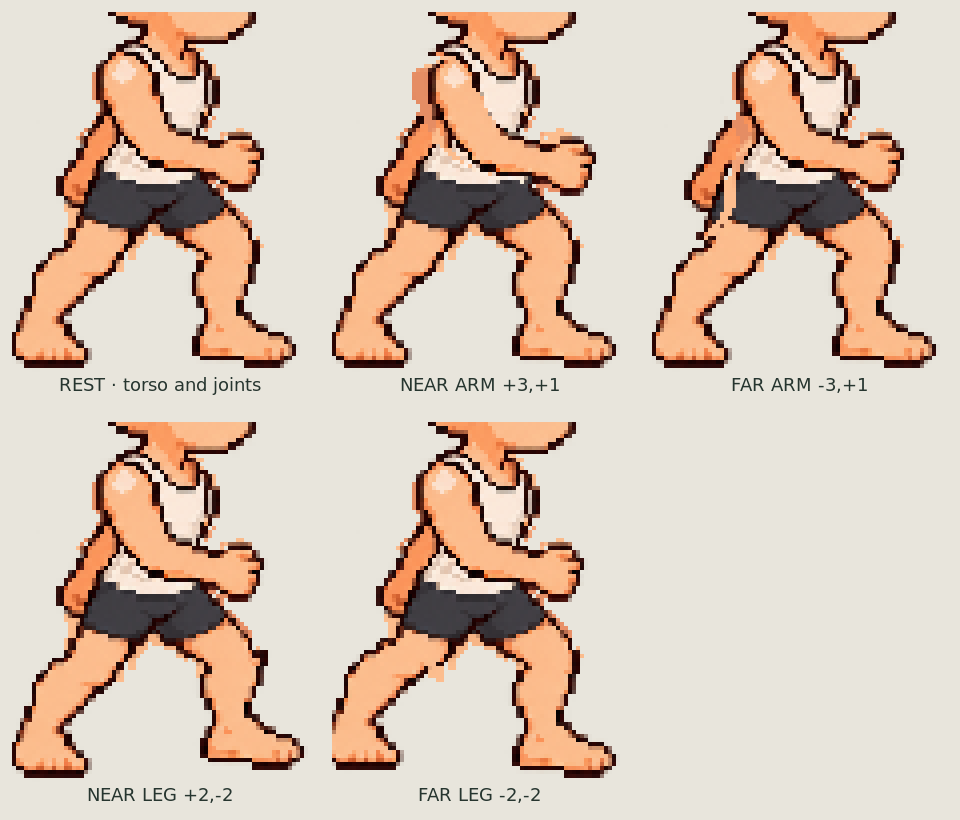
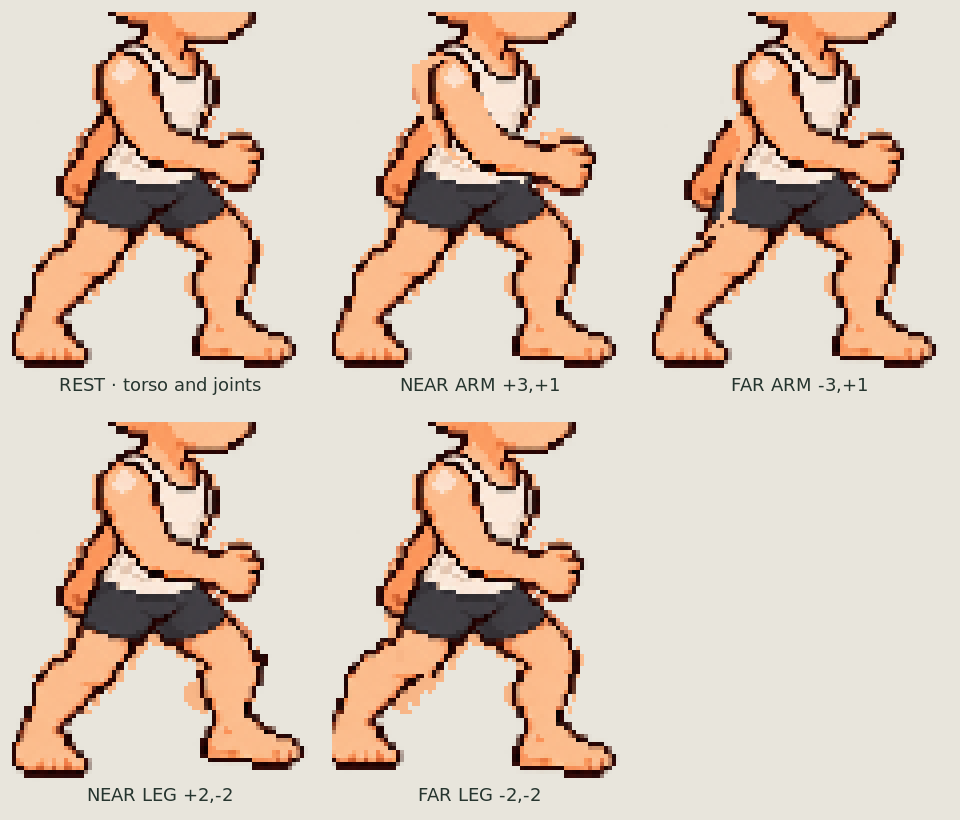
Extend battle idle shoulder and hip underlay

diff --git a/docs/ITERATION_STATUS.md b/docs/ITERATION_STATUS.md
@@ -1,6 +1,6 @@
 # 林间行旅迭代进度 · 2026-10-19
 
-**2026-10-19 最新进展：战场静态样板与独立环境四层重组已获认可；[向右侧视待机中性人体 r2](../Art/Templates/P1-Neutral/battle-side/right-idle-r2/README.md)的姿态与近侧右手方向已获认可。[隐藏人体底层 v2](../Art/Templates/P1-Neutral/battle-side/right-idle-parts-v2/README.md)已修复八层像素归属，静态重组与 r2 逐像素一致；小幅四肢位移测试仍暴露肩髋接缝，需继续补画。通用模板、动作与运行时接入仍未完成。向下正手垂剑 v5 的单帧认可保留；[强击 × 训练短剑首组特效](../Art/Effects/P1-Boardgame/heavyStrike-trainingSword-v1/README.md)正常速度原型仍待独立审美审核。**
+**2026-10-19 最新进展：战场静态样板与独立环境四层重组已获认可；[向右侧视待机中性人体 r2](../Art/Templates/P1-Neutral/battle-side/right-idle-r2/README.md)的姿态与近侧右手方向已获认可。[隐藏人体底层 v2](../Art/Templates/P1-Neutral/battle-side/right-idle-parts-v2/README.md)已修复八层像素归属，静态重组与 r2 逐像素一致；肩髋四个局部根部窗口的小位移覆盖检查通过。整段肢体平移会改变外轮廓，因此全动作接缝、完整隐藏人体与运行时接入仍未完成。向下正手垂剑 v5 的单帧认可保留；[强击 × 训练短剑首组特效](../Art/Effects/P1-Boardgame/heavyStrike-trainingSword-v1/README.md)正常速度原型仍待独立审美审核。**
 
 最近通过完整 iPad UI 套件的正式基线仍为 [1.6.3 build 28](../Downloads/README.md)。最新 MeadowJourney 桌游布局实验包为 [1.6.6 build 31](../Downloads/MeadowJourney-build31.json)：实现三态共用布局并通过 5 项专项检查，仓库完整步态套件尚未全绿。兼容性测试只覆盖 iPad；云端使用 iPad Pro 13-inch（M4）模拟器、iOS 18.5，没有连接用户的物理 iPad。
 
@@ -19,6 +19,10 @@ r2首次修订消除了错误钩线，但实际256图放大后拇指仍只是一
 原[身体部件拆分 v1](../Art/Templates/P1-Neutral/battle-side/right-idle-parts-v1/README.md)继续保留为静态分层记录：从认可的256×256姿势按共同注册导出远近手臂、手、腿、躯干与头部共八个透明层，并制作可编辑SVG母稿。442个接缝覆盖像素单列为当前站姿补位，不是隐藏解剖。两次生成的躯干层因颈根／腰线漂移而弃用并留档。
 
 继续修订[隐藏人体底层 v2](../Art/Templates/P1-Neutral/battle-side/right-idle-parts-v2/README.md)：把原八个抗锯齿遮罩改成互斥像素归属，旧的442像素固定姿态补位层已删除；六个离散源像素并入躯干根层。八层静态重组现与注册 r2 源图逐像素一致，零 RGBA 差异，未改动 r2 原图和脚底线。将隐藏皮肤核心扩到1979像素，覆盖肩部与上髋连接面，并生成近／远手臂与腿的四组小幅平移接缝预检。预检仍发现肩部轮廓残线、髋根断线与空缺，故未通过；这轮是遮罩修复和问题定位，不代表完整解剖、动画或模板通过。下一步补画肩髋遮挡下的身体像素并调整部件分界，再复测。应用、IPA、已认可场景与步行动作未改。
+
+### 隐藏底层 v2 根部补画与局部复核
+
+按复核结果扩充 SVG 隐藏底层至2,298个非透明像素，延展肩部和上髋／上腿根部；静态合成仍与已认可 r2 逐像素一致，固定姿态补位为0。四组注册根部窗口在对应2–3 px刚性平移后均为0个未覆盖的原轮廓像素，测试图为 movement-joints.png。刚性平移会改变腿／手臂外轮廓，这些区域不补成旧肢体，因此本轮仅记录局部根部覆盖通过，全身移位缝隙、转轴动作、逐帧动作、服装遮挡仍未通过或测试。六个原图孤立透明噪点保留在精确静态重组里，只在移动诊断图中滤掉。没有修改已认可原姿态、IPA、步行动作或运行时；完整人体底层仍是未审核候选。
 
 用户在认可四层场景后明确“开始下一项工作”，授权制作独立侧视待机人物。按分层合同，先制作并单张审核向右侧视待机中性人体；维持已认可共同人体的头身比例、完整无发头皮／耳朵、空白面部、安全内衫／短裤与裸足。已认可战场样板仅用于侧向姿态、镜头与地面关系，不将其中绿衣、棕发、蓝眼或短剑烘焙进基础人体。新稿及生成依据另存 `Art/Templates/P1-Neutral/battle-side/right-idle-r1/`，原向下人体和四层场景不改。
 

diff --git a/Art/Templates/P1-Neutral/battle-side/right-idle-parts-v2/README.md b/Art/Templates/P1-Neutral/battle-side/right-idle-parts-v2/README.md
@@ -12,9 +12,11 @@ The assembled eight-part image now matches the registered r2 source exactly: zer
 
 ## Hidden anatomy and movement checks
 
-The editable [underbody-authoring.svg](underbody-authoring.svg) now contains a 1,979-pixel connected core extending through the shoulders and upper-hip roots. It remains a separate layer so the reviewed r2 pose stays pixel-identical. It does not yet include complete limb anatomy.
+The editable [underbody-authoring.svg](underbody-authoring.svg) contains a 2,298-pixel connected core with short overlaps behind both shoulders and upper-thigh roots. It remains a separate layer so the reviewed r2 pose stays pixel-identical. It does not yet include complete limb anatomy.
 
-[movement-seam-test.sh](movement-seam-test.sh) makes a static diagnostic sheet for four small rigid translations: near/far arms by 3 px and near/far legs by 2 px. [movement-joints.png](movement-joints.png) enlarges the shoulder, torso and hip area. These tests reveal unresolved mask-edge and joint-outline seams, especially where the far arm or a leg moves away from its original cut. The movement seam check is therefore still **not passed**. The sheets are still previews, not an approved animation.
+[movement-seam-test.sh](movement-seam-test.sh) makes a static diagnostic sheet for four small rigid translations: near/far arms by 3 px and near/far legs by 2 px. It checks only the anatomical shoulder and hip-root windows against the original silhouette; all four windows now have zero uncovered source pixels. Six isolated alpha specks in the approved source remain in the exact static assembly and are excluded from these movement diagnostics so they are not mistaken for anatomy. [movement-joints.png](movement-joints.png) still shows how whole-part translations alter the outer silhouette. This is a localized coverage check, not an animation test or art approval.
+
+The underbody candidate remains separate from the static composite and is still incomplete. Full limb anatomy, articulated redraws, clothing overlap, other poses/directions and runtime integration are not covered.
 
 Hair, face, clothing, footwear, weapon grip, limb rotation, other poses/directions and runtime integration remain out of scope. Do not use this candidate as a production rig or mark the underbody art approved.
 
